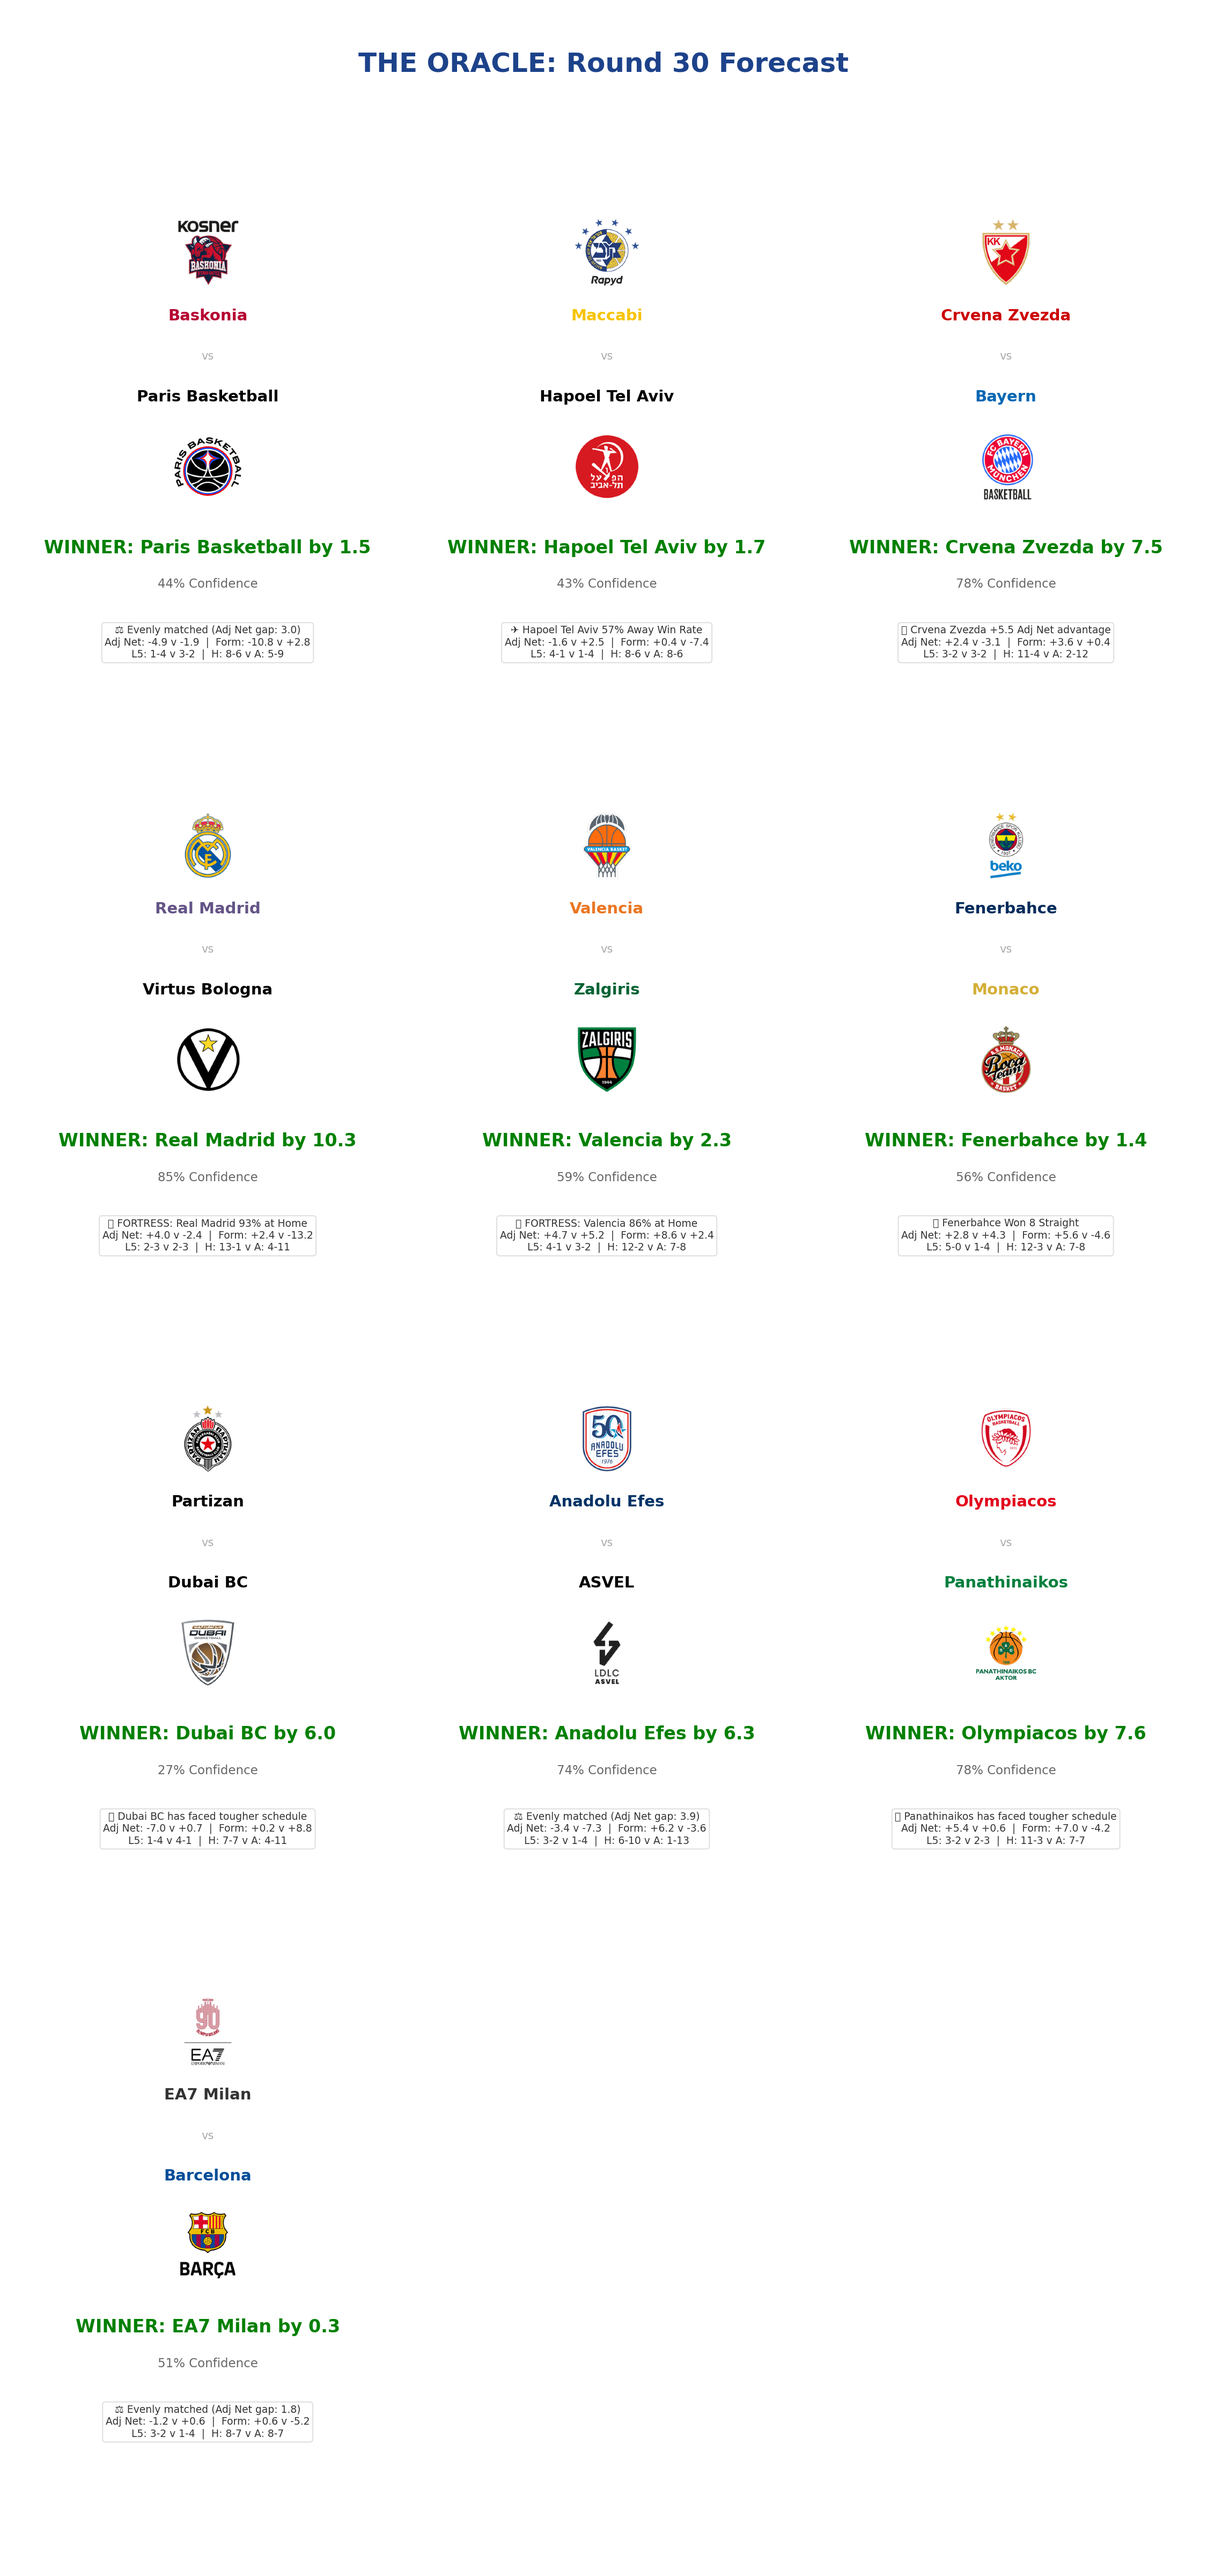
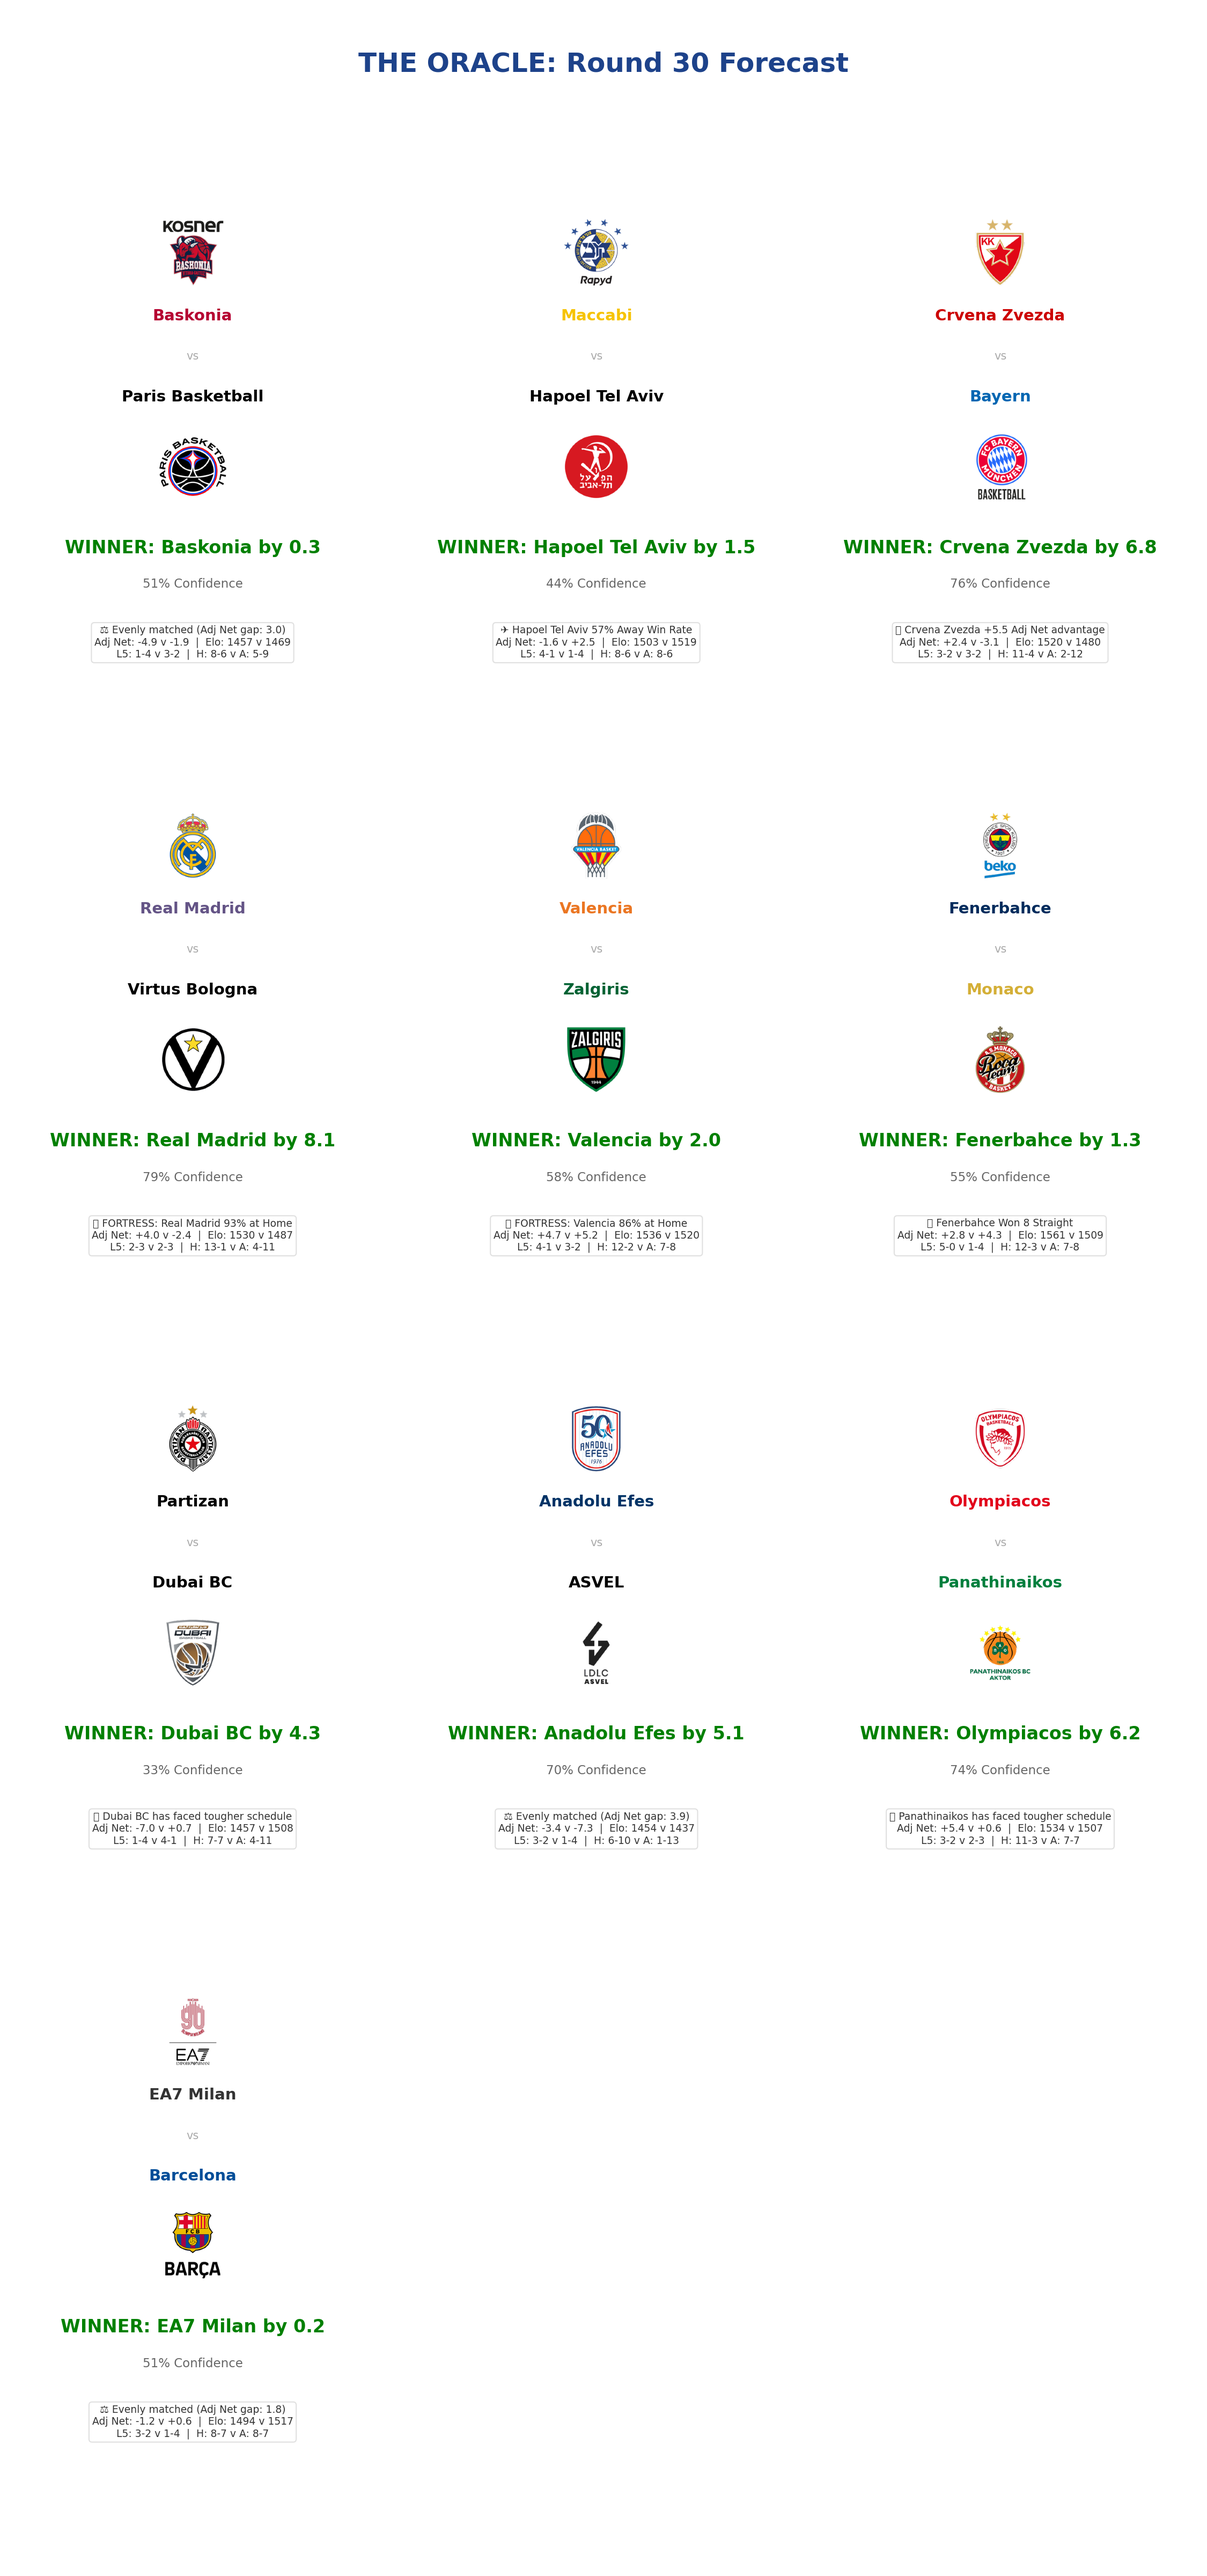
feat: Add Rolling Elo system and integrate into oracle
- calculate_elo.py: K=10, HCA=50, no MOV multiplier (backtested)
- Oracle now uses 25% Elo + 75% Adj Net + per-team HCA blend
- Elo ratings: ULK #1 (1561), PAM #2 (1536), OLY #3 (1534)
- Insight cards show both Adj Net and Elo ratings
- Regenerated Round 30 forecast with Elo-powered model

diff --git a/mvp_oracle.py b/mvp_oracle.py
@@ -110,6 +110,17 @@ def run_oracle(target_round=None):
     else:
         print("Warning: adjusted_ratings.json not found. Falling back to raw ratings.")
 
+    # 3.2 Load Rolling Elo Ratings
+    elo_lookup = {}
+    if os.path.exists('elo_ratings.json'):
+        with open('elo_ratings.json', 'r') as f:
+            elo_data = json.load(f)
+        for entry in elo_data:
+            elo_lookup[entry['Team']] = entry['Elo']
+        print(f"Loaded Elo Ratings for {len(elo_lookup)} teams.")
+    else:
+        print("Warning: elo_ratings.json not found. Elo factor disabled.")
+
     # 3.5 Calculate League Rankings
     # Sort by ORTG (Desc) and DRTG (Asc)
     sorted_ortg = sorted(team_stats.items(), key=lambda x: x[1]['ORTG'], reverse=True)
@@ -252,31 +263,29 @@ def run_oracle(target_round=None):
         r_road_pct = (r_form['RoadW'] / r_form['RoadG']) * 100 if r_form['RoadG'] > 0 else 0
         
         # === OPTIMIZED PREDICTION MODEL ===
-        # Weights: 85/5/10 + per-team HCA blend (optimized via incremental backtest)
-        # Factor 1: KenPom Adjusted Net Rating (85%) — strongest single predictor
+        # 25% Elo + 75% Adj Net + per-team HCA (optimized via incremental backtest)
+        # Elo tracks real-time team quality; Adj Net corrects for opponent quality
+        
+        # Factor 1: KenPom Adjusted Net Rating (75%)
         l_adj = adj_net_lookup.get(local, l_stat['Net'])
         r_adj = adj_net_lookup.get(road, r_stat['Net'])
         
-        # Factor 2: True Home/Away Location Split (5%)
-        l_loc = l_stat['HomeNet']   # Local team's home performance
-        r_loc = r_stat['AwayNet']   # Road team's away performance
+        # Factor 2: Rolling Elo Rating (25%) — converted to points scale
+        l_elo = elo_lookup.get(local, 1500)
+        r_elo = elo_lookup.get(road, 1500)
+        elo_margin = (l_elo - r_elo + 50) / 25  # +50 for Elo HCA, /25 to convert to pts
         
-        # Factor 3: Recent Form / Momentum (10%)
-        l_form_val = l_stat['Form']
-        r_form_val = r_stat['Form']
-        
-        # Blended Power Rating
-        l_power = (l_adj * 0.85) + (l_loc * 0.05) + (l_form_val * 0.10)
-        r_power = (r_adj * 0.85) + (r_loc * 0.05) + (r_form_val * 0.10)
+        # Blended prediction: 75% Adj Net diff + 25% Elo margin
+        adj_diff = l_adj - r_adj
+        margin_raw = (adj_diff * 0.75) + (elo_margin * 0.25)
         
         # Per-team HCA: blend global HCA with team-specific home boost
-        # team_hca = how much better team plays at home vs their average
         l_net_overall = l_stat['Net']
         team_hca = l_stat['HomeNet'] - l_net_overall
         hca_alpha = 0.3  # 30% team-specific, 70% global
         blended_hca = (hca * (1 - hca_alpha) + team_hca * hca_alpha) * 0.5
         
-        margin = (l_power - r_power) + blended_hca
+        margin = margin_raw + blended_hca
         
         winner = local if margin > 0 else road
         
@@ -322,7 +331,9 @@ def run_oracle(target_round=None):
                 insight = f"⚖ Evenly matched (Adj Net gap: {gap:.1f})"
         
         # Build insight block
-        line2 = f"Adj Net: {l_adj:+.1f} v {r_adj:+.1f}  |  Form: {l_form_val:+.1f} v {r_form_val:+.1f}"
+        l_form_val = l_stat['Form']
+        r_form_val = r_stat['Form']
+        line2 = f"Adj Net: {l_adj:+.1f} v {r_adj:+.1f}  |  Elo: {l_elo:.0f} v {r_elo:.0f}"
         
         l_l5 = l_form.get('Last5', [])
         r_l5 = r_form.get('Last5', [])

diff --git a/calculate_elo.py b/calculate_elo.py
@@ -1,0 +1,98 @@
+"""
+Euroleague Rolling Elo Rating System.
+Computes game-by-game Elo ratings that update after each result.
+Produces elo_ratings.json for use by mvp_oracle.py.
+"""
+
+import json
+import numpy as np
+import os
+
+
+# --- Elo Parameters (optimized via backtest) ---
+K_FACTOR = 10        # Conservative K for single-season stability
+ELO_HCA = 50         # Elo points for home court advantage
+STARTING_ELO = 1500  # All teams start here
+
+
+def expected_score(rating_a, rating_b, hca=0):
+    """Expected win probability for team A."""
+    return 1 / (1 + 10 ** ((rating_b - rating_a - hca) / 400))
+
+
+def compute_elo_ratings():
+    """Compute rolling Elo ratings from game results."""
+    
+    with open('mvp_game_results.json', 'r') as f:
+        all_games = json.load(f)
+    
+    # Only played games, sorted chronologically
+    played = sorted(
+        [g for g in all_games if g['LocalScore'] > 0],
+        key=lambda g: g['GameCode']
+    )
+    
+    if not played:
+        print("No played games found.")
+        return {}
+    
+    # Initialize Elo ratings
+    elo = {}
+    history = []  # Track Elo after each round for visualization
+    
+    for game in played:
+        local = game['LocalTeam']
+        road = game['RoadTeam']
+        
+        if local not in elo:
+            elo[local] = STARTING_ELO
+        if road not in elo:
+            elo[road] = STARTING_ELO
+        
+        actual_margin = game['LocalScore'] - game['RoadScore']
+        actual_score_local = 1.0 if actual_margin > 0 else 0.0
+        
+        # Expected outcome
+        exp_local = expected_score(elo[local], elo[road], ELO_HCA)
+        
+        # Update Elo (no margin-of-victory multiplier — backtested as better)
+        elo[local] += K_FACTOR * (actual_score_local - exp_local)
+        elo[road] += K_FACTOR * ((1 - actual_score_local) - (1 - exp_local))
+        
+        history.append({
+            'GameCode': game['GameCode'],
+            'EloSnapshot': dict(elo)
+        })
+    
+    # Sort by Elo rating
+    sorted_elo = sorted(elo.items(), key=lambda x: x[1], reverse=True)
+    
+    # Print final standings
+    print(f"\n{'='*45}")
+    print(f"  EUROLEAGUE ELO RATINGS ({len(played)} games)")
+    print(f"{'='*45}")
+    
+    for i, (team, rating) in enumerate(sorted_elo):
+        # Calculate win probability vs average team
+        wp = expected_score(rating, STARTING_ELO) * 100
+        delta = rating - STARTING_ELO
+        print(f"  {i+1:>2}. {team:<5} {rating:>6.0f} ({delta:>+5.0f})  WP vs avg: {wp:.0f}%")
+    
+    # Save to file
+    output = []
+    for team, rating in sorted_elo:
+        output.append({
+            'Team': team,
+            'Elo': round(rating, 1),
+            'Delta': round(rating - STARTING_ELO, 1)
+        })
+    
+    with open('elo_ratings.json', 'w') as f:
+        json.dump(output, f, indent=4)
+    print(f"\nSaved elo_ratings.json")
+    
+    return elo
+
+
+if __name__ == '__main__':
+    compute_elo_ratings()
